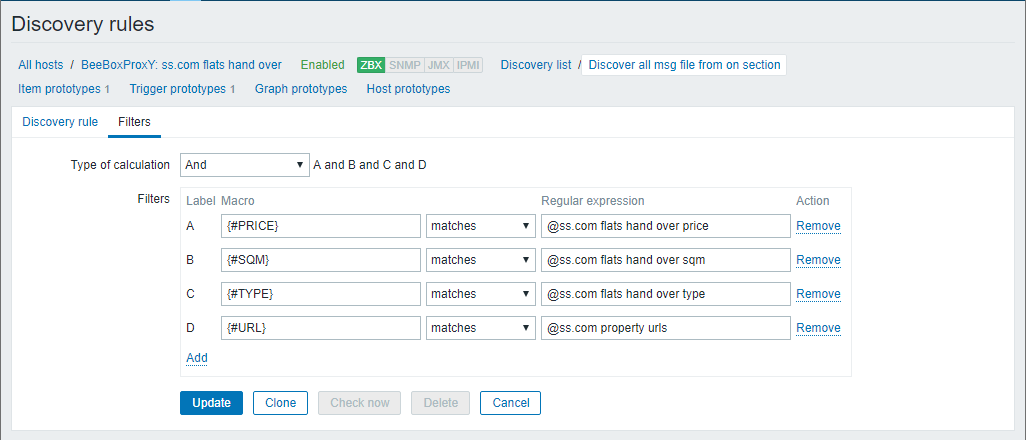
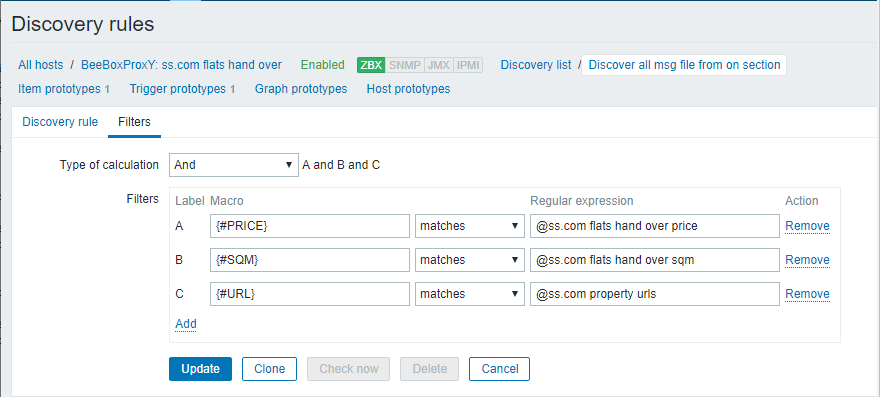
v0.6

diff --git a/README.md b/README.md
@@ -4,34 +4,35 @@
 {
   "data": [
     {
-      "{#URL}": "https://www.ss.com/msg/lv/real-estate/flats/riga/kengarags/gdkej.html",
-      "{#PLACE}": "engarags, Salaspils 7",
+      "{#URL}": "https://www.ss.com/msg/en/real-estate/flats/riga/ziepniekkalns/dkodg.html",
+      "{#PLACE}": "Ziepniekkalns, Kartupelu 16",
       "{#ROOMS}": "2",
-      "{#SQM}": "34",
-      "{#FLOOR}": "5",
-      "{#TYPE}": "ehu pr.",
-      "{#PRICE}": "240  /mn."
-    },
-    {
-      "{#URL}": "https://www.ss.com/msg/lv/real-estate/flats/riga/mangalsala/addpd.html",
-      "{#PLACE}": "Mangasala, Albatrosu 24",
-      "{#ROOMS}": "2",
-      "{#SQM}": "52",
-      "{#FLOOR}": "5",
-      "{#TYPE}": "Specpr.",
-      "{#PRICE}": "390  /mn."
-    },
-    {
-      "{#URL}": "https://www.ss.com/msg/lv/real-estate/flats/riga/katlakalns/gjgex.html",
-      "{#PLACE}": "Katlakalns, Bauskas 1",
-      "{#ROOMS}": "2",
-      "{#SQM}": "68",
+      "{#SQM}": "60",
       "{#FLOOR}": "1",
-      "{#TYPE}": "Hru.",
-      "{#PRICE}": "300  /mn."
+      "{#TYPE}": "Private",
+      "{#PRICE}": "330  /mon."
+    },
+    {
+      "{#URL}": "https://www.ss.com/msg/en/real-estate/flats/riga/kengarags/aexgx.html",
+      "{#PLACE}": "Kengarags, Maskavas 266",
+      "{#ROOMS}": "2",
+      "{#SQM}": "47",
+      "{#FLOOR}": "3",
+      "{#TYPE}": "Chrusch.",
+      "{#PRICE}": "420  /mon."
+    },
+    {
+      "{#URL}": "https://www.ss.com/msg/en/real-estate/flats/riga/teika/dplek.html",
+      "{#PLACE}": "Teika, Pikola 19",
+      "{#ROOMS}": "1",
+      "{#SQM}": "35",
+      "{#FLOOR}": "2",
+      "{#TYPE}": "Perewar",
+      "{#PRICE}": "150  /mon."
     }
   ]
 }
+
 ```
 
 ## Dependencies
@@ -47,6 +48,7 @@ mezhciems|purvciems|plyavnieki|teika
 ```
 
 #### ss.com flats hand over price
+What is the price range, eliminate paying per "day" or "week"
 ```
 Expression type: Result is TRUE, Expression:
 ^(1[0-4][0-9]|[0-9][0-9]|150) .*$
@@ -56,28 +58,19 @@ day|week
 ```
 
 #### ss.com flats hand over sqm
+Set the square metters intereseted
 ```
 Expression type: Result is TRUE, Expression:
 ^(2[1-9]|3[0-9])$
 ```
 
-#### ss.com flats hand over type
-```
-Expression type: Result is TRUE, Expression:
-^602
-```
-
 #### ss.com flats sell price
+Selling price
 ```
 Expression type: Result is TRUE, Expression:
 ^(1)?[0-9],
 ```
 
-#### ss.com flats sell type
-```
-Expression type: Result is TRUE, Expression:
-LT proj|602|M. im.
-```
 
 ### Install external script
 ```
